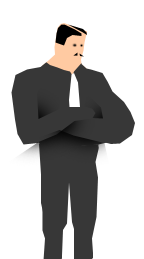
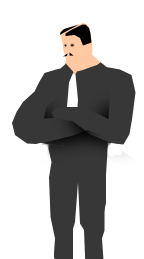
flipped convo portraits

diff --git a/index.bundle.js b/index.bundle.js
@@ -45958,10 +45958,10 @@ Conversation.moveToNode = function(index)
 
 		var speakerAtlas = ThreeUtils.loadAtlas("characters");
 		this.portraitElement.className = "conversation_portrait_on";
-		ThreeUtils.setElementToAtlasImage(this.portraitElement, speakerAtlas, currentSpeaker.sprite);
+		ThreeUtils.setElementToAtlasImage(this.portraitElement2, speakerAtlas, currentSpeaker.sprite);
 
 		this.portraitElement2.className = "conversation_portrait2_on";
-		ThreeUtils.setElementToAtlasImage(this.portraitElement2, speakerAtlas, "player");
+		ThreeUtils.setElementToAtlasImage(this.portraitElement, speakerAtlas, "player");
 
 		var i = 0;
 		if (currentNode.responses)

diff --git a/src/game/conversation.js b/src/game/conversation.js
@@ -162,10 +162,10 @@ Conversation.moveToNode = function(index)
 
 		var speakerAtlas = ThreeUtils.loadAtlas("characters");
 		this.portraitElement.className = "conversation_portrait_on";
-		ThreeUtils.setElementToAtlasImage(this.portraitElement, speakerAtlas, currentSpeaker.sprite);
+		ThreeUtils.setElementToAtlasImage(this.portraitElement2, speakerAtlas, currentSpeaker.sprite);
 
 		this.portraitElement2.className = "conversation_portrait2_on";
-		ThreeUtils.setElementToAtlasImage(this.portraitElement2, speakerAtlas, "player");
+		ThreeUtils.setElementToAtlasImage(this.portraitElement, speakerAtlas, "player");
 
 		var i = 0;
 		if (currentNode.responses)
